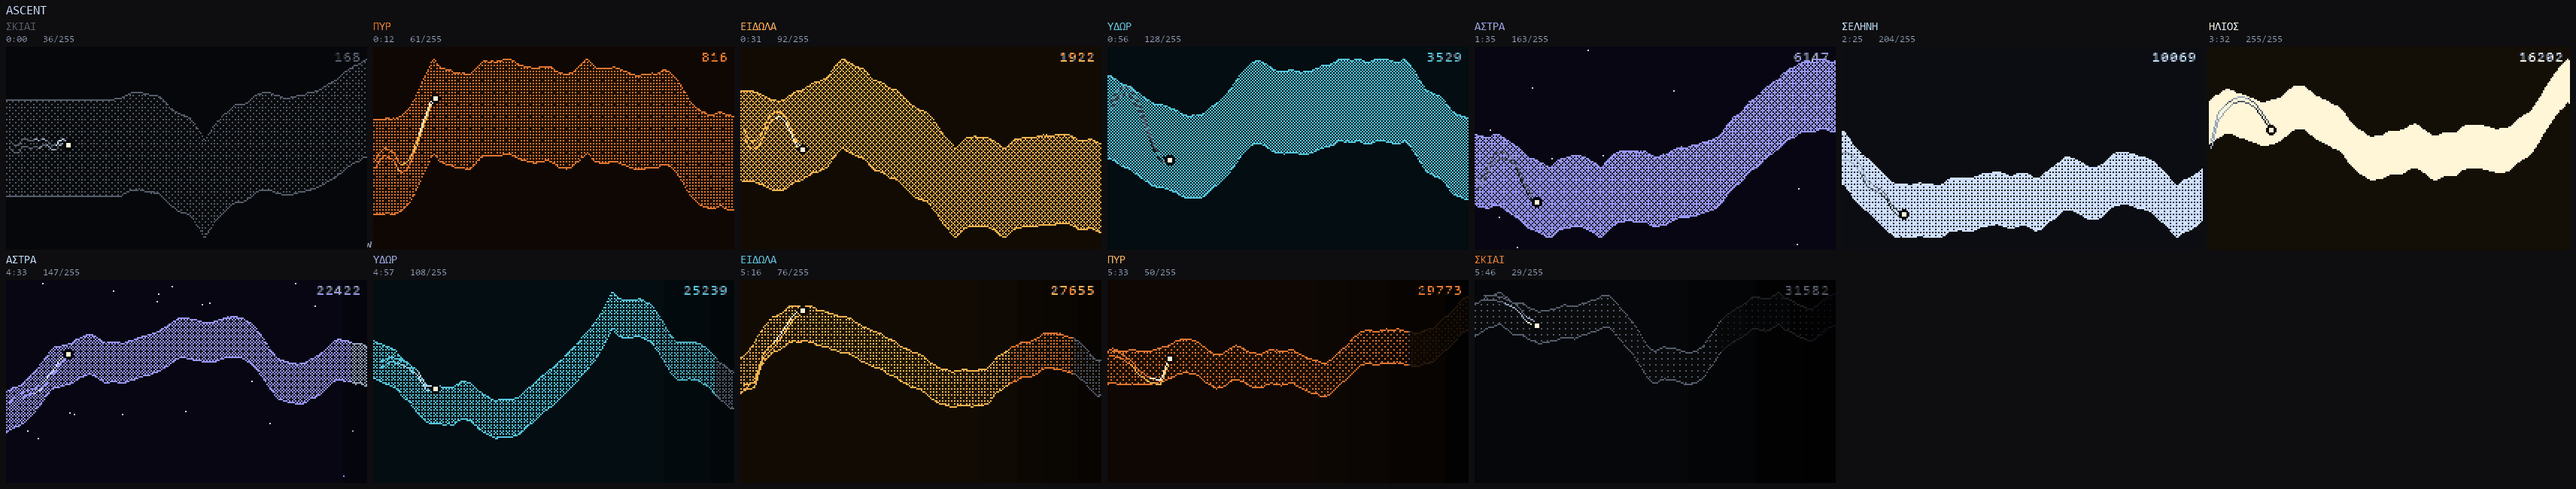
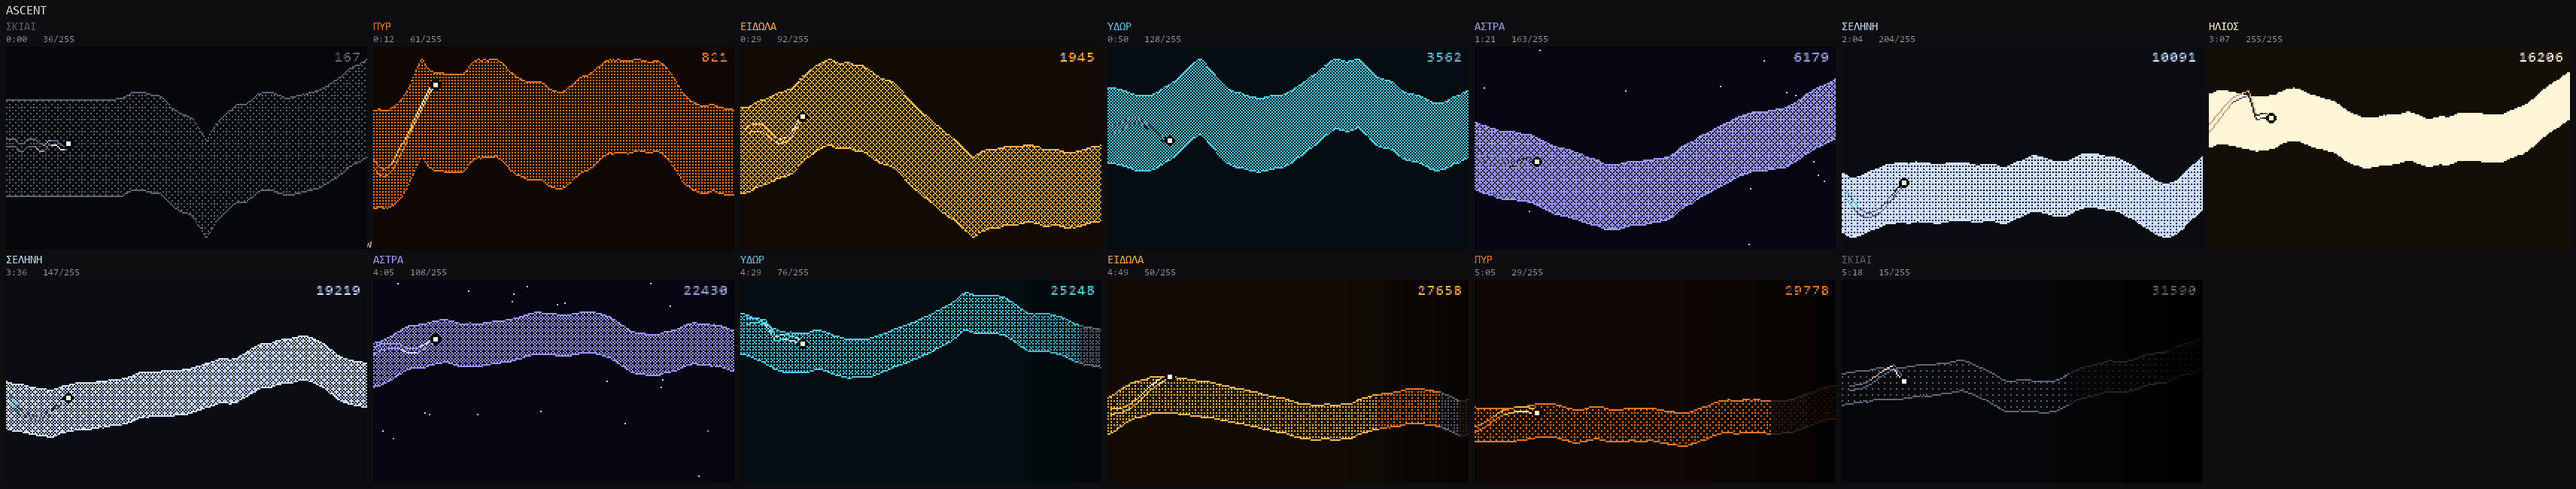
Difficulty steps per region, replacing the continuous ramps
Under the old scheme a typical run met 17% of the narrowing and 8% of the
acceleration before it ended. The escalation lived entirely past where
anyone played, so regions were colours rather than difficulties and the
game had one difficulty level in practice.

Each region now sets its own gap and scroll, eased in over STEP_SPAN
(120 distance, ~1.7s) so a step is an event rather than a wall that could
close around a player already committed to a line. The same run now meets
33% and 23%, and the first boundary at 12.7s is a real change: 64.8 ->
56.7 px, 55 -> 66 col/s, warning 3.62 -> 3.02s.

Front-loaded on purpose, since real play ends around region 3 and the
early steps have to carry a share of the range worth having. Endpoints are
unchanged at 0.48H -> 0.15H and 55 -> 145 col/s; only the distribution
moved. This is not a difficulty reduction: it makes the difficulty arrive.

GAP_RAMP_END, SPEED_RAMP_END and their siblings are gone, replaced by
REGION_GAP and REGION_SPEED tables carried through to both the firmware
header and the web build.

Also fixes a logging bug the refactor exposed: the turn lands exactly on
ΣΕΛΗΝΗ's return boundary, and the PERIAGOGE branch was swallowing the
transition. That region was absent from every timing table ever printed,
including the test's expectations, which checked 12 entries against a list
that silently lacked one.

Full run is now 318.4s. Region timings verified between the Python model
and the web build at 30/50/72/144 fps.

diff --git a/web/index.html b/web/index.html
@@ -94,8 +94,9 @@ const REGIONS=[
   {name:"ΠΥΡ",label:"ΠΥΡ",from:29500,light:29,rock:[15,7,4],glow:[236,116,36]},  // 11 return
   {name:"ΣΚΙΑΙ",label:"ΣΚΙΑΙ",from:31300,light:15,rock:[6,7,11],glow:[78,88,104]},  // 12 return
 ];
-const SPEED_START=55.0,SPEED_END=100.0,SPEED_RAMP_END=16000,SPEED_DESC_END=145.0;
-const GAP_START=0.48,GAP_MIN=0.21,GAP_RAMP_END=12000,GAP_DESC_MIN=0.15;
+const SPEED_START=55.0,STEP_SPAN=120;
+const REGION_GAP=[0.48,0.42,0.37,0.33,0.29,0.26,0.23,0.215,0.2,0.185,0.17,0.16,0.15];
+const REGION_SPEED=[55.0,66.0,76.0,84.0,91.0,97.0,103.0,110.0,117.0,124.0,131.0,138.0,145.0];
 const DESCENT_START=19000,WIN_DIST=33000;
 const GRAVITY=5.0,THRUST=-7.5,VY_MAX=1.0;
 const DRIFT_STEP=0.42,DRIFT_CLAMP=2.6,DRIFT_DAMP=0.94;
@@ -147,16 +148,16 @@ function descentProgress(d) {
   return d <= DESCENT_START ? 0
     : Math.min(1, (d - DESCENT_START) / (WIN_DIST - DESCENT_START));
 }
-function speedAt(d) {
-  return d <= SPEED_RAMP_END
-    ? SPEED_START + (SPEED_END - SPEED_START) * (d / SPEED_RAMP_END)
-    : SPEED_END + (SPEED_DESC_END - SPEED_END) * descentProgress(d);
+// Difficulty steps per region, eased in over STEP_SPAN at each boundary.
+// Must match cave.py's _stepped().
+function stepped(table, d) {
+  const i = regionIndex(d);
+  if (i === 0) return table[0];
+  const t = Math.min(1, (d - REGIONS[i].from) / STEP_SPAN);
+  return table[i - 1] + (table[i] - table[i - 1]) * t;
 }
-function gapAt(d) {
-  const t = Math.min(1, d / GAP_RAMP_END);
-  return H * (GAP_START - (GAP_START - GAP_MIN) * t
-              - (GAP_MIN - GAP_DESC_MIN) * descentProgress(d));
-}
+function speedAt(d) { return stepped(REGION_SPEED, d); }
+function gapAt(d) { return H * stepped(REGION_GAP, d); }
 function regionAt(d) {
   let r = REGIONS[0];
   for (const c of REGIONS) if (d >= c.from) r = c;

diff --git a/tools/test_web.js b/tools/test_web.js
@@ -107,10 +107,13 @@ function timedRun(seed, fps, seconds) {
 }
 
 // 1. Region timings must match what the Python model reports.
+// From the Python model. Twelve entries: ΣΕΛΗΝΗ's return was missing from every
+// earlier table because the turn lands on that boundary and the ΠΕΡΙΑΓΩΓΗ branch
+// was swallowing the log entry.
 const EXPECTED = [
-  ['ΠΥΡ', 12.5], ['ΕΙΔΩΛΑ', 31.3], ['ΥΔΩΡ', 57.0], ['ΑΣΤΡΑ', 95.2],
-  ['ΣΕΛΗΝΗ', 145.7], ['ΗΛΙΟΣ', 212.6], ['ΣΕΛΗΝΗ', 242.6], ['ΑΣΤΡΑ', 273.0],
-  ['ΥΔΩΡ', 297.4], ['ΕΙΔΩΛΑ', 316.9], ['ΠΥΡ', 333.1], ['ΣΚΙΑΙ', 346.2],
+  ['ΠΥΡ', 12.7], ['ΕΙΔΩΛΑ', 29.6], ['ΥΔΩΡ', 50.7], ['ΑΣΤΡΑ', 81.8],
+  ['ΣΕΛΗΝΗ', 124.7], ['ΗΛΙΟΣ', 187.6], ['ΣΕΛΗΝΗ', 216.8], ['ΑΣΤΡΑ', 245.9],
+  ['ΥΔΩΡ', 269.8], ['ΕΙΔΩΛΑ', 289.2], ['ΠΥΡ', 305.3], ['ΣΚΙΑΙ', 318.4],
 ];
 console.log('region timings vs the Python model (50 fps):');
 const log50 = timedRun(3, 50, 400);

diff --git a/tools/cave.py b/tools/cave.py
@@ -80,10 +80,27 @@ STAGES = [("ΣΚΙΑΙ",     0, 0.14, (6, 7, 11),   (78, 88, 104)),    # shadows
 # the passage narrows, and the scroll accelerates -- the latter shrinks forward
 # view measured in *time*, from ~3.6 s of warning at the start to ~2.0 s at the
 # sun, which is the reaction budget that actually governs difficulty.
-SPEED_START, SPEED_END = 55.0, 100.0   # columns/second
-SPEED_RAMP_END = 16000                 # distance at which SPEED_END is reached
-GAP_START, GAP_MIN = 0.48, 0.21        # as a fraction of H
-GAP_RAMP_END = 12000                   # distance at which GAP_MIN is reached
+# Difficulty steps per region rather than ramping continuously over the whole
+# run. Under the old continuous ramps a typical run met 17% of the narrowing and
+# 8% of the acceleration before it ended: the regions were colours, not
+# difficulties, and the escalation lived past where anyone actually played.
+#
+# Front-loaded on purpose. Real play ends around region 3, so the early steps
+# have to carry a meaningful share of the range or the curve still never
+# participates. Endpoints are unchanged -- 0.48H to 0.15H, 55 to 145 col/s --
+# only their distribution has moved.
+#                 ------------- ascent -------------  ------ return ------
+REGION_GAP =   (0.48, 0.42, 0.37, 0.33, 0.29, 0.26, 0.23,
+                0.215, 0.20, 0.185, 0.17, 0.16, 0.15)     # fraction of H
+REGION_SPEED = (55.0, 66.0, 76.0, 84.0, 91.0, 97.0, 103.0,
+                110.0, 117.0, 124.0, 131.0, 138.0, 145.0)  # columns/second
+
+# A step eases in over this distance rather than snapping. Instant would be both
+# jarring and unfair -- the passage could narrow around a player already
+# committed to a line. ~1.7s at mid-run speeds: an event, not a wall.
+STEP_SPAN = 120
+
+SPEED_START = REGION_SPEED[0]          # the drift scaling references this
 
 # How far the passage wanders, per column. Scaled by SPEED_START/speed in
 # Cave.step so the wander stays constant in px/second as the scroll accelerates.
@@ -113,9 +130,7 @@ VY_MAX = 1.00       # * H  px/s
 # and the speed caps at 16000. Repeating the ascent would be strictly easier,
 # because you would already know it.
 SUN_HOLD = 3000                     # distance held at the sun before turning back
-DESCENT_START = SPEED_RAMP_END + SUN_HOLD
-SPEED_DESC_END = 145.0              # columns/second by the time you reach the chains
-GAP_DESC_MIN = 0.15                 # below ~0.13 it stops being difficulty
+DESCENT_START = 19000               # where ΗΛΙΟΣ ends and the return begins
 WIN_DIST = 33000
 
 # (index into STAGES, distance it begins, how far the dazzled eye falls short of
@@ -212,22 +227,35 @@ def descent_progress(dist):
     return min(1.0, (dist - DESCENT_START) / (WIN_DIST - DESCENT_START))
 
 
+def region_index(dist):
+    """Index into REGIONS for a given distance."""
+    i = 0
+    for n, r in enumerate(REGIONS):
+        if dist >= r[1]:
+            i = n
+    return i
+
+
+def _stepped(table, dist):
+    """Value from a per-region table, eased in over STEP_SPAN at the boundary."""
+    i = region_index(dist)
+    if i == 0:
+        return table[0]
+    t = min(1.0, (dist - REGIONS[i][1]) / STEP_SPAN)
+    return table[i - 1] + (table[i] - table[i - 1]) * t
+
+
 def speed_at(dist):
-    """Scroll rate in columns/second. Climbs on the ascent, holds across the sun,
-    then climbs again -- speed is the primary descent lever because the gap has
-    a hard floor and reaction time does not."""
-    if dist <= SPEED_RAMP_END:
-        return SPEED_START + (SPEED_END - SPEED_START) * (dist / SPEED_RAMP_END)
-    return SPEED_END + (SPEED_DESC_END - SPEED_END) * descent_progress(dist)
+    """Scroll rate in columns/second, stepped per region. Speed is the sharper
+    lever of the two: the gap has a hard floor near the player's own height,
+    reaction time does not."""
+    return _stepped(REGION_SPEED, dist)
 
 
 def gap_at(dist):
     """Passage height in pixels. A pure function of distance, so it cannot drift
     with frame rate the way an incremental shrink did."""
-    t = min(1.0, dist / GAP_RAMP_END)
-    gap = GAP_START - (GAP_START - GAP_MIN) * t
-    gap -= (GAP_MIN - GAP_DESC_MIN) * descent_progress(dist)
-    return H * gap
+    return H * _stepped(REGION_GAP, dist)
 
 
 # Plain-English gloss per stage. Kept out of STAGES so bake_constants.py, which
@@ -492,10 +520,14 @@ def simulate(seed, seconds, fps=50, render=True, render_at=None):
 
         name = stage_for(dist)[0]
         turned = (dist >= DESCENT_START > dist - advance)
+        # Log the transition before deciding the banner. The turn lands exactly
+        # on a region boundary, so folding the two together made the ΠΕΡΙΑΓΩΓΗ
+        # branch swallow ΣΕΛΗΝΗ's return: it was absent from every timing table.
+        if name != prev:
+            log.append((name, step_i * dt, dist))
         if turned:
             banner, flash = PERIAGOGE, int(1.6 * fps)   # held longer than a caption
         elif name != prev:
-            log.append((name, step_i * dt, dist))
             banner, flash = None, int(0.5 * fps)
         else:
             flash = max(0, flash - 1)

diff --git a/tools/bake_constants.py b/tools/bake_constants.py
@@ -47,28 +47,31 @@ def emit() -> str:
          "// 30-144 fps; keep it that way -- per-frame rates put the sun at 25 s\n"
          "// on a 50 fps device and 14 s on a 90 fps one.\n"]
 
-    p.append(f"constexpr float SPEED_START    = {cave.SPEED_START:.1f}f;"
-             "   // columns/second at distance 0\n")
-    p.append(f"constexpr float SPEED_END      = {cave.SPEED_END:.1f}f;"
-             "  // columns/second once ramped\n")
-    p.append(f"constexpr float SPEED_RAMP_END = {cave.SPEED_RAMP_END}.0f;\n")
-    p.append(f"constexpr float GAP_START      = {cave.GAP_START:.3f}f;"
-             "  // fraction of panel height\n")
-    p.append(f"constexpr float GAP_MIN        = {cave.GAP_MIN:.3f}f;\n")
-    p.append(f"constexpr float GAP_RAMP_END   = {cave.GAP_RAMP_END}.0f;\n\n")
+    p.append(f"constexpr float SPEED_START = {cave.SPEED_START:.1f}f;"
+             "   // columns/second in the first region\n")
+    p.append("// Difficulty steps PER REGION rather than ramping across the whole\n"
+             "// run. Under continuous ramps a typical run met 17% of the\n"
+             "// narrowing and 8% of the acceleration before it ended -- the\n"
+             "// regions were colours, not difficulties. Front-loaded, because\n"
+             "// real play ends around region 3.\n"
+             "//\n"
+             "// A step eases in over STEP_SPAN rather than snapping: instant\n"
+             "// would narrow the passage around a player already committed.\n")
+    p.append(f"constexpr float STEP_SPAN = {cave.STEP_SPAN}.0f;\n")
+    p.append("inline constexpr float REGION_GAP[REGION_COUNT] = {"
+             + ", ".join(f"{v:.3f}f" for v in cave.REGION_GAP)
+             + "};   // * H\n")
+    p.append("inline constexpr float REGION_SPEED[REGION_COUNT] = {"
+             + ", ".join(f"{v:.1f}f" for v in cave.REGION_SPEED)
+             + "};  // col/s\n\n")
 
     p.append("// ---- the return -------------------------------------------------\n"
-             "// Republic ~516e-517a. Both ascent levers are spent by the sun --\n"
-             "// the gap floors at GAP_RAMP_END, the speed caps at SPEED_RAMP_END --\n"
-             "// so the descent uncaps them rather than repeating the climb.\n")
-    p.append(f"constexpr float SUN_HOLD       = {cave.SUN_HOLD}.0f;"
+             "// Republic ~516e-517a. The return continues the same per-region\n"
+             "// steps past the sun, tighter and faster than any ascent region.\n")
+    p.append(f"constexpr float SUN_HOLD      = {cave.SUN_HOLD}.0f;"
              "   // distance held at the sun before turning back\n")
-    p.append(f"constexpr float DESCENT_START  = {cave.DESCENT_START}.0f;\n")
-    p.append(f"constexpr float SPEED_DESC_END = {cave.SPEED_DESC_END:.1f}f;"
-             "  // columns/second at the chains\n")
-    p.append(f"constexpr float GAP_DESC_MIN   = {cave.GAP_DESC_MIN:.3f}f;"
-             "  // fraction of H\n")
-    p.append(f"constexpr float WIN_DIST       = {cave.WIN_DIST}.0f;"
+    p.append(f"constexpr float DESCENT_START = {cave.DESCENT_START}.0f;\n")
+    p.append(f"constexpr float WIN_DIST      = {cave.WIN_DIST}.0f;"
              "   // reaching this completes the game\n\n")
 
     p.append("// The closing view: the returning eye cannot see far. Applied AFTER\n"
@@ -181,7 +184,6 @@ def emit() -> str:
 NOT_BAKED = {
     "W", "H", "PLAYER_X",                      # set by configure(), not fixed
     "LIGHT_FLOOR",                             # already applied to REGIONS
-    "SPEED_RAMP_END", "GAP_RAMP_END",          # emitted under those names
 }
 
 

diff --git a/firmware/plato/assets/constants.h b/firmware/plato/assets/constants.h
@@ -9,22 +9,25 @@
 // Frame-rate independence is verified in the Python model across
 // 30-144 fps; keep it that way -- per-frame rates put the sun at 25 s
 // on a 50 fps device and 14 s on a 90 fps one.
-constexpr float SPEED_START    = 55.0f;   // columns/second at distance 0
-constexpr float SPEED_END      = 100.0f;  // columns/second once ramped
-constexpr float SPEED_RAMP_END = 16000.0f;
-constexpr float GAP_START      = 0.480f;  // fraction of panel height
-constexpr float GAP_MIN        = 0.210f;
-constexpr float GAP_RAMP_END   = 12000.0f;
+constexpr float SPEED_START = 55.0f;   // columns/second in the first region
+// Difficulty steps PER REGION rather than ramping across the whole
+// run. Under continuous ramps a typical run met 17% of the
+// narrowing and 8% of the acceleration before it ended -- the
+// regions were colours, not difficulties. Front-loaded, because
+// real play ends around region 3.
+//
+// A step eases in over STEP_SPAN rather than snapping: instant
+// would narrow the passage around a player already committed.
+constexpr float STEP_SPAN = 120.0f;
+inline constexpr float REGION_GAP[REGION_COUNT] = {0.480f, 0.420f, 0.370f, 0.330f, 0.290f, 0.260f, 0.230f, 0.215f, 0.200f, 0.185f, 0.170f, 0.160f, 0.150f};   // * H
+inline constexpr float REGION_SPEED[REGION_COUNT] = {55.0f, 66.0f, 76.0f, 84.0f, 91.0f, 97.0f, 103.0f, 110.0f, 117.0f, 124.0f, 131.0f, 138.0f, 145.0f};  // col/s
 
 // ---- the return -------------------------------------------------
-// Republic ~516e-517a. Both ascent levers are spent by the sun --
-// the gap floors at GAP_RAMP_END, the speed caps at SPEED_RAMP_END --
-// so the descent uncaps them rather than repeating the climb.
-constexpr float SUN_HOLD       = 3000.0f;   // distance held at the sun before turning back
-constexpr float DESCENT_START  = 19000.0f;
-constexpr float SPEED_DESC_END = 145.0f;  // columns/second at the chains
-constexpr float GAP_DESC_MIN   = 0.150f;  // fraction of H
-constexpr float WIN_DIST       = 33000.0f;   // reaching this completes the game
+// Republic ~516e-517a. The return continues the same per-region
+// steps past the sun, tighter and faster than any ascent region.
+constexpr float SUN_HOLD      = 3000.0f;   // distance held at the sun before turning back
+constexpr float DESCENT_START = 19000.0f;
+constexpr float WIN_DIST      = 33000.0f;   // reaching this completes the game
 
 // The closing view: the returning eye cannot see far. Applied AFTER
 // the rock edge is drawn, so the edge is occluded too -- otherwise

diff --git a/tools/bake_web.py b/tools/bake_web.py
@@ -42,10 +42,9 @@ def emit():
         BEGIN,
         f"const W={cave.W},H={cave.H};",
         js_regions(),
-        f"const SPEED_START={cave.SPEED_START},SPEED_END={cave.SPEED_END},"
-        f"SPEED_RAMP_END={cave.SPEED_RAMP_END},SPEED_DESC_END={cave.SPEED_DESC_END};",
-        f"const GAP_START={cave.GAP_START},GAP_MIN={cave.GAP_MIN},"
-        f"GAP_RAMP_END={cave.GAP_RAMP_END},GAP_DESC_MIN={cave.GAP_DESC_MIN};",
+        f"const SPEED_START={cave.SPEED_START},STEP_SPAN={cave.STEP_SPAN};",
+        "const REGION_GAP=[" + ",".join(str(v) for v in cave.REGION_GAP) + "];",
+        "const REGION_SPEED=[" + ",".join(str(v) for v in cave.REGION_SPEED) + "];",
         f"const DESCENT_START={cave.DESCENT_START},WIN_DIST={cave.WIN_DIST};",
         f"const GRAVITY={cave.GRAVITY},THRUST={cave.THRUST},VY_MAX={cave.VY_MAX};",
         "const DRIFT_STEP=0.42,DRIFT_CLAMP=2.6,DRIFT_DAMP=0.94;",

diff --git a/tools/model_descent.py b/tools/model_descent.py
@@ -53,8 +53,10 @@ def curve_sheet(w=900, h=340):
     ]
 
     # The turn, and where each ascent lever expires.
-    for dist, label, col in ((cave.GAP_RAMP_END, "gap floor", (70, 90, 110)),
-                             (cave.SPEED_RAMP_END, "sun", (110, 100, 60)),
+    for dist, label, col in ((cave.REGIONS[cave.region_index(15999)][1],
+                              "last ascent step", (70, 90, 110)),
+                             (cave.REGIONS[len(cave.STAGES) - 1][1], "sun",
+                              (110, 100, 60)),
                              (cave.DESCENT_START, "turn back", (150, 80, 80))):
         px = x0 + pw * dist / cave.WIN_DIST
         d.line([px, y0, px, y0 + ph], fill=col)

diff --git a/docs/GAME_DESIGN.md b/docs/GAME_DESIGN.md
@@ -409,6 +409,45 @@ The first pass accumulated distance per *frame*. That put the sun at ~25 s on a
 different on every build. Verified fixed: stage timings across **30, 50, 70, 90
 and 144 fps agree to 0.00%**.
 
+### Difficulty steps per region
+
+Each region sets its **own** gap and scroll rate, eased in over `STEP_SPAN`
+(120 distance, ~1.7 s) at the boundary. A region change is therefore a felt
+mechanical event, not only a change of palette.
+
+| region | gap | scroll | warning |
+| --- | --- | --- | --- |
+| ΣΚΙΑΙ | 64.8 px | 55 col/s | 3.62 s |
+| ΠΥΡ | 56.7 | 66 | 3.02 |
+| ΕΙΔΩΛΑ | 50.0 | 76 | 2.62 |
+| ΥΔΩΡ | 44.6 | 84 | 2.37 |
+| ΑΣΤΡΑ | 39.1 | 91 | 2.19 |
+| ΣΕΛΗΝΗ | 35.1 | 97 | 2.05 |
+| ΗΛΙΟΣ | 31.1 | 103 | 1.93 |
+| ΣΕΛΗΝΗ ↓ | 29.0 | 110 | 1.81 |
+| ΑΣΤΡΑ ↓ | 27.0 | 117 | 1.70 |
+| ΥΔΩΡ ↓ | 25.0 | 124 | 1.60 |
+| ΕΙΔΩΛΑ ↓ | 23.0 | 131 | 1.52 |
+| ΠΥΡ ↓ | 21.6 | 138 | 1.44 |
+| ΣΚΙΑΙ ↓ | 20.2 | 145 | 1.37 |
+
+**Why this replaced continuous ramps.** Under the old scheme a typical run met
+**17% of the narrowing and 8% of the acceleration** before it ended — the whole
+escalation lived past where anyone actually played, and regions were colours
+rather than difficulties. The same run now meets **33% and 23%**, and more
+importantly the *first* boundary at 12.7 s is a real event: 64.8 → 56.7 px and
+55 → 66 col/s, cutting the warning from 3.62 s to 3.02 s.
+
+The table is **front-loaded** deliberately. Real play ends around region 3, so
+the early steps must carry a meaningful share of the range or the curve still
+never participates. Endpoints are unchanged (0.48 H → 0.15 H, 55 → 145 col/s);
+only their distribution moved.
+
+Steps **ease** rather than snap. Instant would be unfair as well as jarring — the
+passage could narrow around a player already committed to a line.
+
+*This does not make the game easier. It makes the difficulty arrive.*
+
 ### Two difficulty levers
 
 | | Start | At the sun |
